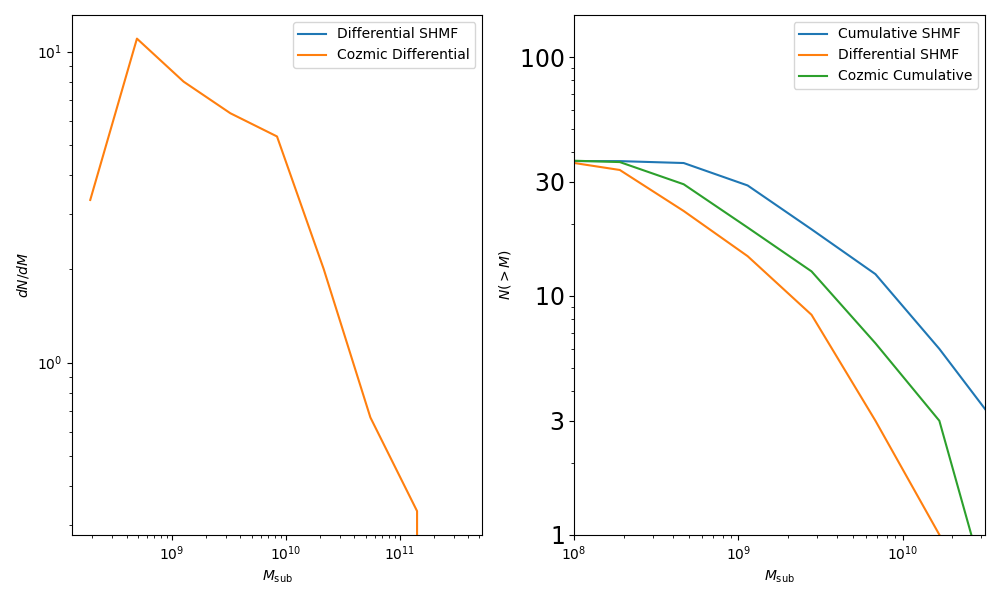
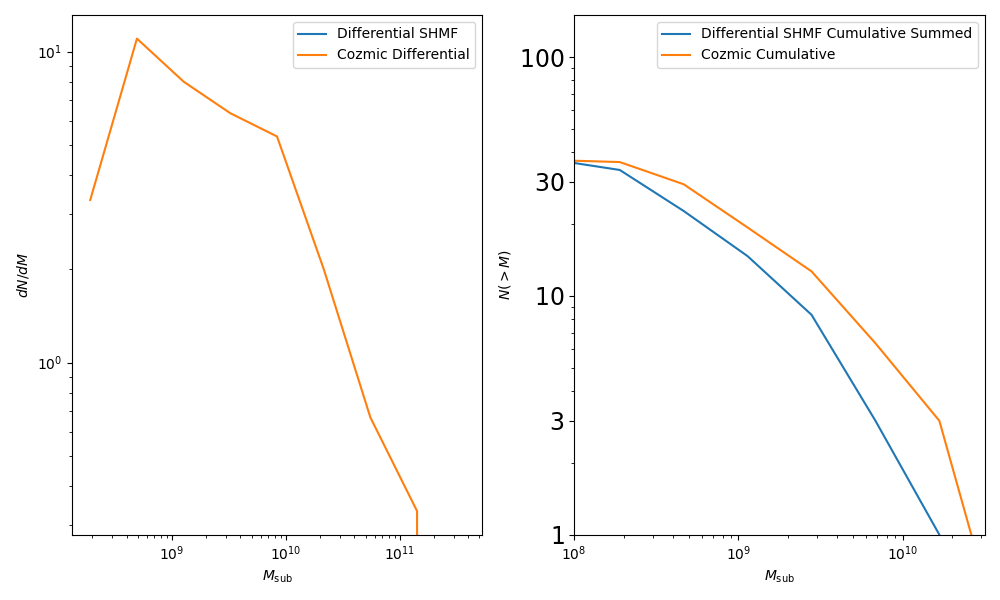
Test in integrating the differential SHMF

diff --git a/plot_SHMF.py b/plot_SHMF.py
@@ -97,17 +97,15 @@ diff_bin_centers = 0.5 * (diff_mean_log_bin[1:] + diff_mean_log_bin[:-1])
 
 test_mean_bins = np.mean([test_1, test_2, test_3], axis=0)
 print('test_mean_bins: ', 10**diff_log_bins_023[1:])
+
 # Cummulative log bin choice
 cumm_log_bins = np.linspace(7.5,11,10)
 cumm_bins = 10**cumm_log_bins
-
 cumm_bin_centers = cumm_bins[1:]
-print('cumm_bin_centers: ', cumm_bin_centers)
 
 cumm_hist_1, cumm_base_1 = np.histogram(mass_peak_with_Mvir_cut_004/h_cdm, bins=cumm_bins)
 cumm_hist_2, cumm_base_2 = np.histogram(mass_peak_with_Mvir_cut_113/h_cdm, bins=cumm_bins)
 cumm_hist_3, cumm_base_3 = np.histogram(mass_peak_with_Mvir_cut_023/h_cdm, bins=cumm_bins)
-print(np.mean([cumm_base_1, cumm_base_2, cumm_base_3], axis=0))
 
 # Cumulative SHMF
 # Instead of reverse cumulative sum, subtract the length of the array from the histogram
@@ -125,17 +123,9 @@ print(np.mean([cumm_base_1, cumm_base_2, cumm_base_3], axis=0))
 # cdm = ax.plot(CDM8K_base[1:], np.mean(cdm_shmf,axis=0),
 #            'k',ls=':',lw=2,label='$\mathrm{CDM}$')
 
-cumm_mean_1 = np.cumsum(cumm_hist_1[::-1])[::-1]
-cumm_mean_2 = np.cumsum(cumm_hist_2[::-1])[::-1]
-cumm_mean_3 = np.cumsum(cumm_hist_3[::-1])[::-1]
-
-total_cumm_mean = np.mean([cumm_mean_1, cumm_mean_2, cumm_mean_3], axis=0)
-CDM8K_cumulative_1 = np.cumsum(total_cumm_mean)
-print('CDM8K_cumulative_1: ', CDM8K_cumulative_1)
-
 total_cumm_mean = np.mean([cumm_hist_1, cumm_hist_2, cumm_hist_3], axis=0)
-CDM8K_cumulative_2 = np.cumsum(total_cumm_mean[::-1])[::-1]
-print('CDM8K_cumulative_2: ', CDM8K_cumulative_2)
+cumm_mean_reverse = np.cumsum(total_cumm_mean[::-1])[::-1]
+print('cumm_mean_reverse: ', cumm_mean_reverse)
 
 # COZMIC 1 paper data
 y_cumm = [37.        , 36.33333333, 29.33333333, 19.33333333, 12.66666667,
@@ -171,15 +161,15 @@ ax1.set_xlabel(r'$M_{\mathrm{sub}}$')
 ax1.set_ylabel(r'$dN/dM$')
 ax1.legend()
 
-print('Cumulative Sum: ', np.cumsum(diff_mean[::-1])[::-1])
-print('total_cumm_mean: ', total_cumm_mean)
+print('cumm_bin_centers: ', cumm_bin_centers)
+print('cumulative sum: ', np.cumsum(diff_mean[::-1])[::-1])
 print('x_cumm: ', x_cumm)
 print('y_cumm: ', y_cumm)
 
 # Cumulative plot
 ax2 = plt.subplot(1, 2, 2)
-ax2.plot(cumm_bin_centers, total_cumm_mean, label="Cumulative SHMF")
-ax2.plot(cumm_bin_centers, np.cumsum(diff_mean[::-1])[::-1], label="Differential SHMF")
+#ax2.plot(cumm_bin_centers, cumm_mean_reverse, label="Cumulative SHMF")
+ax2.plot(cumm_bin_centers, np.cumsum(diff_mean[::-1])[::-1], label="Differential SHMF Cumulative Summed")
 ax2.plot(x_cumm,y_cumm, label="Cozmic Cumulative")
 
 # Cumulative plot style
